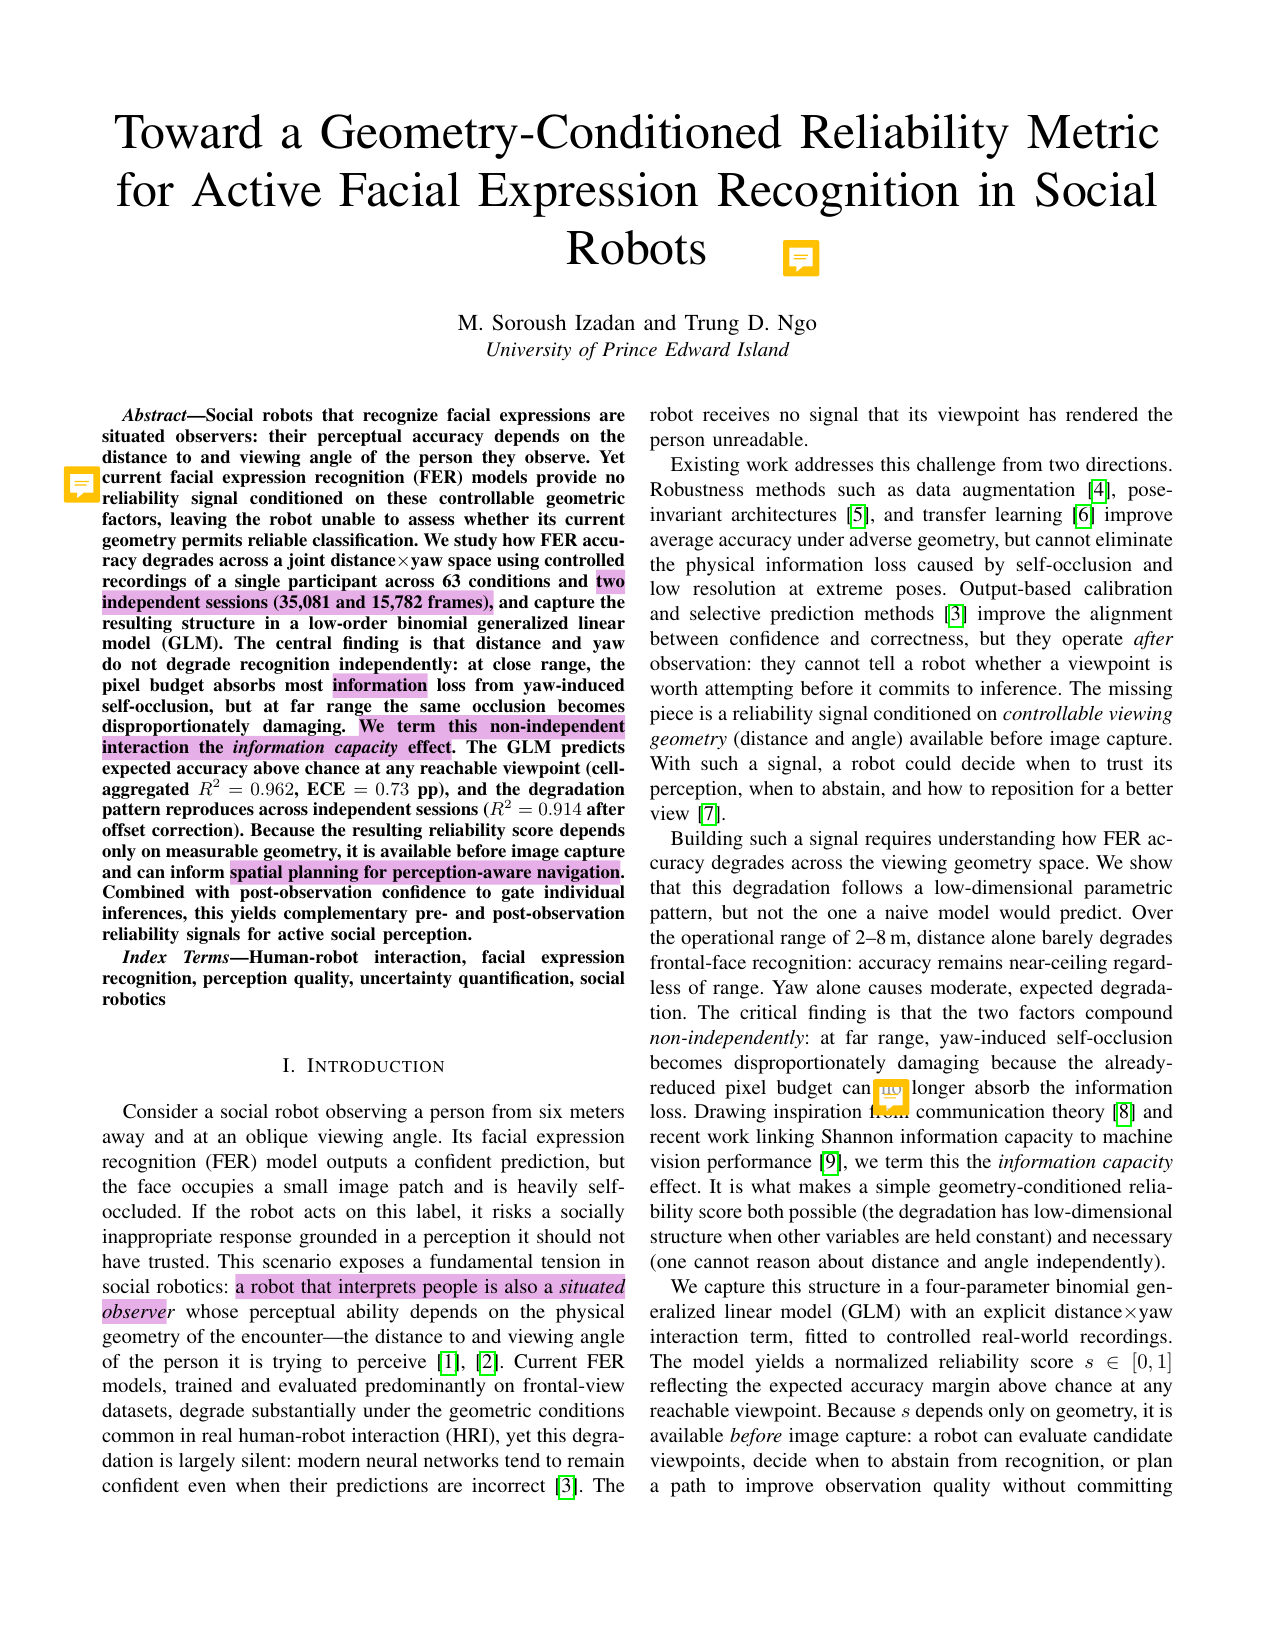
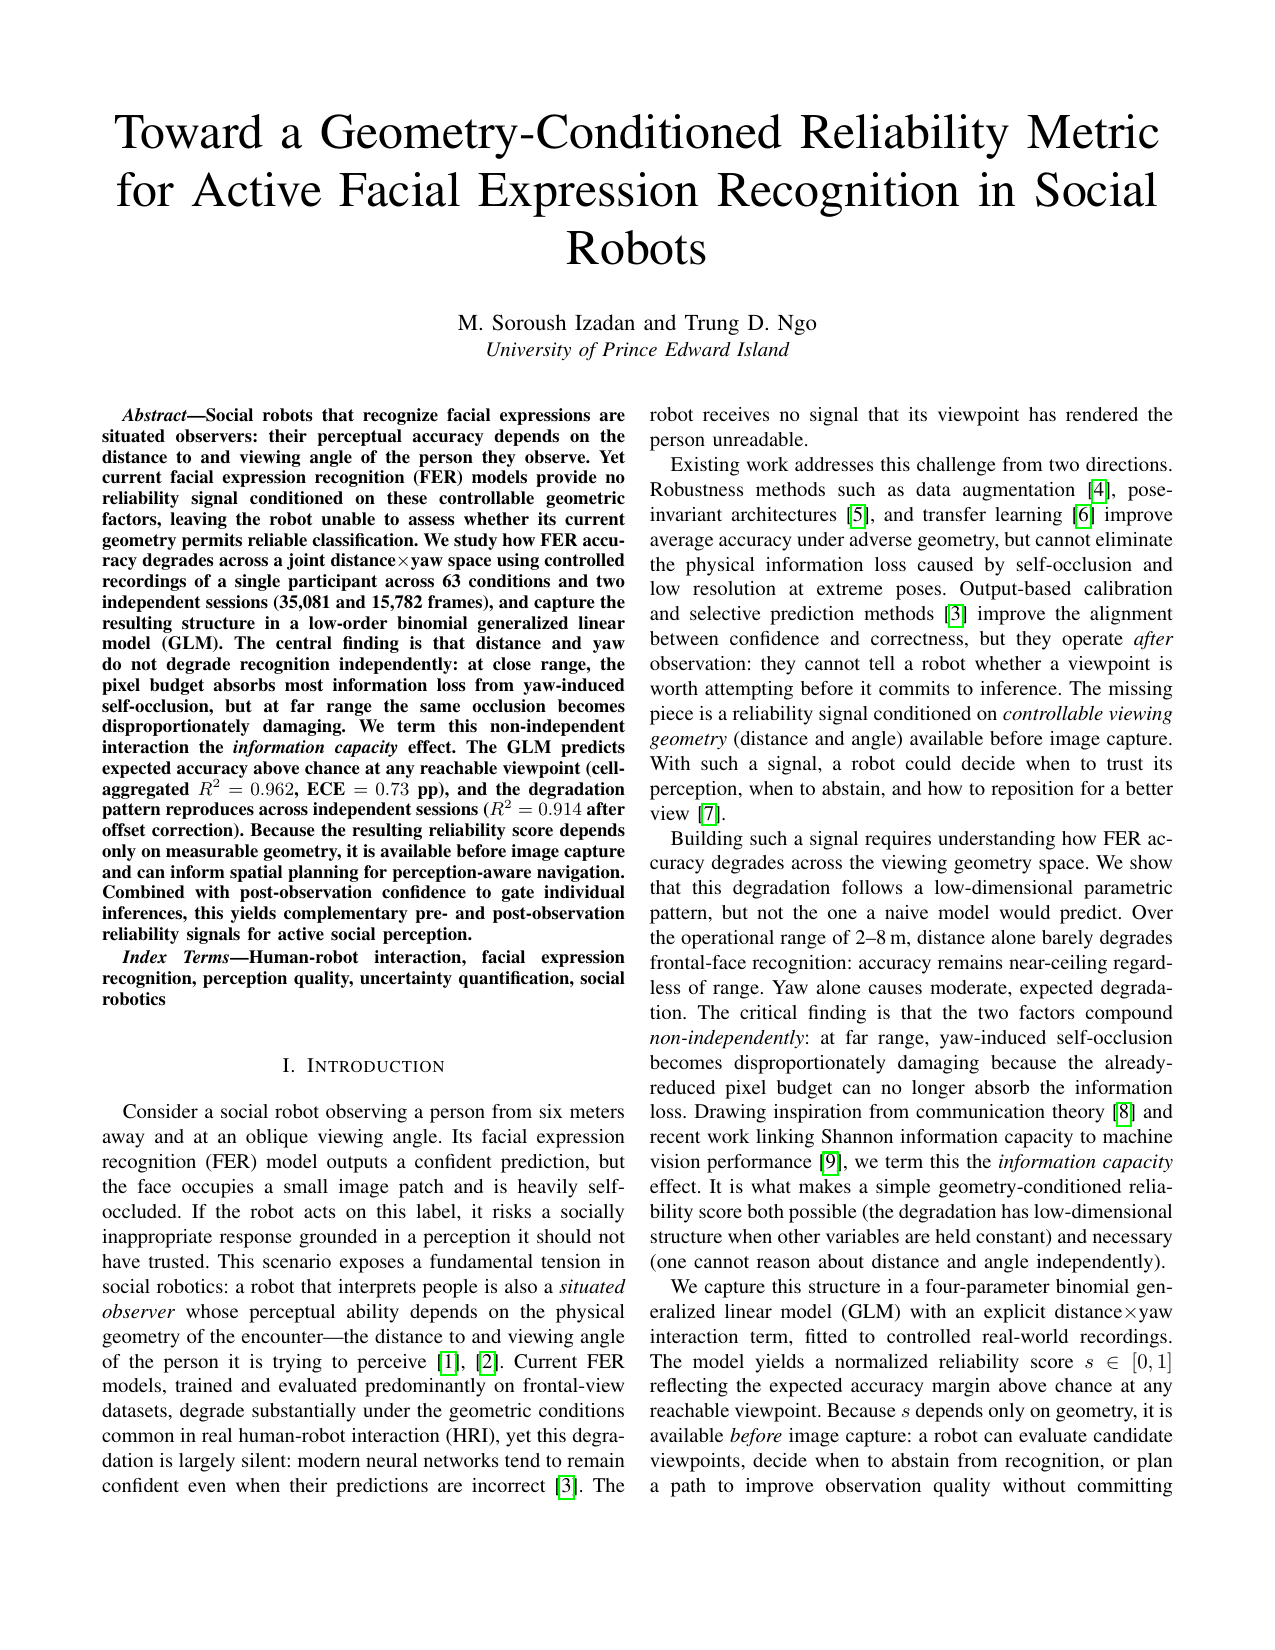
fixes 3

diff --git a/index.html b/index.html
@@ -338,7 +338,7 @@
         </div>
       </object>
       <div class="paper-mobile">
-        <img src="assets/manuscript_thumb.png" alt="Thumbnail of the first page of the preliminary manuscript." loading="lazy">
+        <img src="assets/manuscript_thumb.png" alt="Thumbnail of the first page of the preliminary manuscript.">
       </div>
 
       <div class="paper-actions">
@@ -372,16 +372,7 @@
 
     <div class="video-grid">
       <figure class="video-card">
-        <video
-          controls
-          preload="metadata"
-          playsinline
-          poster="assets/video_poster_8h.jpg"
-          aria-label="Eight metre, head-on experimental recording.">
-          <source src="files/8h.mp4" type="video/mp4">
-          Your browser does not support the video tag.
-          <a href="files/8h.mp4">Download the 8 m head-on clip</a>.
-        </video>
+        <img src="assets/video_still_8h.png" alt="Lab setup for the 8 metre head-on recording. The subject sits in a swivel chair facing the camera at the far end of the space.">
         <figcaption>
           <div class="video-meta"><b>8 m · 0° yaw</b> &nbsp;·&nbsp; head&#8209;on</div>
           <div class="video-sub">Face region large enough to be comfortably in-distribution for the FER model.</div>
@@ -389,16 +380,7 @@
       </figure>
 
       <figure class="video-card">
-        <video
-          controls
-          preload="metadata"
-          playsinline
-          poster="assets/video_poster_6_60h.jpg"
-          aria-label="Six metre, sixty degree yaw experimental recording.">
-          <source src="files/6_60h.mp4" type="video/mp4">
-          Your browser does not support the video tag.
-          <a href="files/6_60h.mp4">Download the 6 m 60° clip</a>.
-        </video>
+        <img src="assets/video_still_6_60h.png" alt="Lab setup for the 6 metre, 60 degree yaw recording. The subject sits in the same chair but rotated so the face is seen obliquely.">
         <figcaption>
           <div class="video-meta"><b>6 m · 60° yaw</b> &nbsp;·&nbsp; oblique</div>
           <div class="video-sub">Self&#8209;occlusion compounds with reduced pixel count; the model's confidence becomes misleading.</div>

diff --git a/styles.css b/styles.css
@@ -765,9 +765,11 @@ sup { font-size: 0.72em; line-height: 0; }
   border-radius: 3px;
   overflow: hidden;
 }
-.video-card video {
+.video-card img {
   width: 100%;
   height: auto;
+  aspect-ratio: 16 / 9;
+  object-fit: cover;
   background: #000;
   display: block;
 }
@@ -877,20 +879,34 @@ sup { font-size: 0.72em; line-height: 0; }
   }
   .byline .tag { white-space: nowrap; }
 
+  /* desktop: face crop keeps its natural portrait aspect (288:322).
+     .motivation-crop gets an explicit width so the label, photo, and caption
+     all match the photo's derived width. The width formula makes the photo's
+     height equal the scene image's height (scene aspect 16:6, image aspect 0.894). */
   .motivation-grid {
-    grid-template-columns: 1.55fr 1fr;
+    display: flex;
+    align-items: flex-start;
     gap: 20px;
-    align-items: start;
   }
-  .motivation-crop { display: flex; flex-direction: column; }
-  /* desktop: match scene height better by using a landscape aspect, and
-     cover-crop the portrait face image with a face-centered offset */
+  .motivation-hero {
+    flex: 1 1 0;
+    min-width: 0;
+  }
+  .motivation-hero .hero-photo { aspect-ratio: 16 / 6; }
+  .motivation-crop {
+    flex: 0 0 auto;
+    display: flex;
+    flex-direction: column;
+    width: clamp(160px, calc((100vw - 116px) * 0.894 / 3.56), 320px);
+  }
   .motivation-crop .crop-photo {
-    aspect-ratio: 16 / 10;
+    aspect-ratio: 288 / 322;
   }
   .motivation-crop .crop-photo img {
+    width: 100%;
+    height: 100%;
     object-fit: cover;
-    object-position: center 42%;
+    object-position: center center;
   }
 
   .signal-grid {
